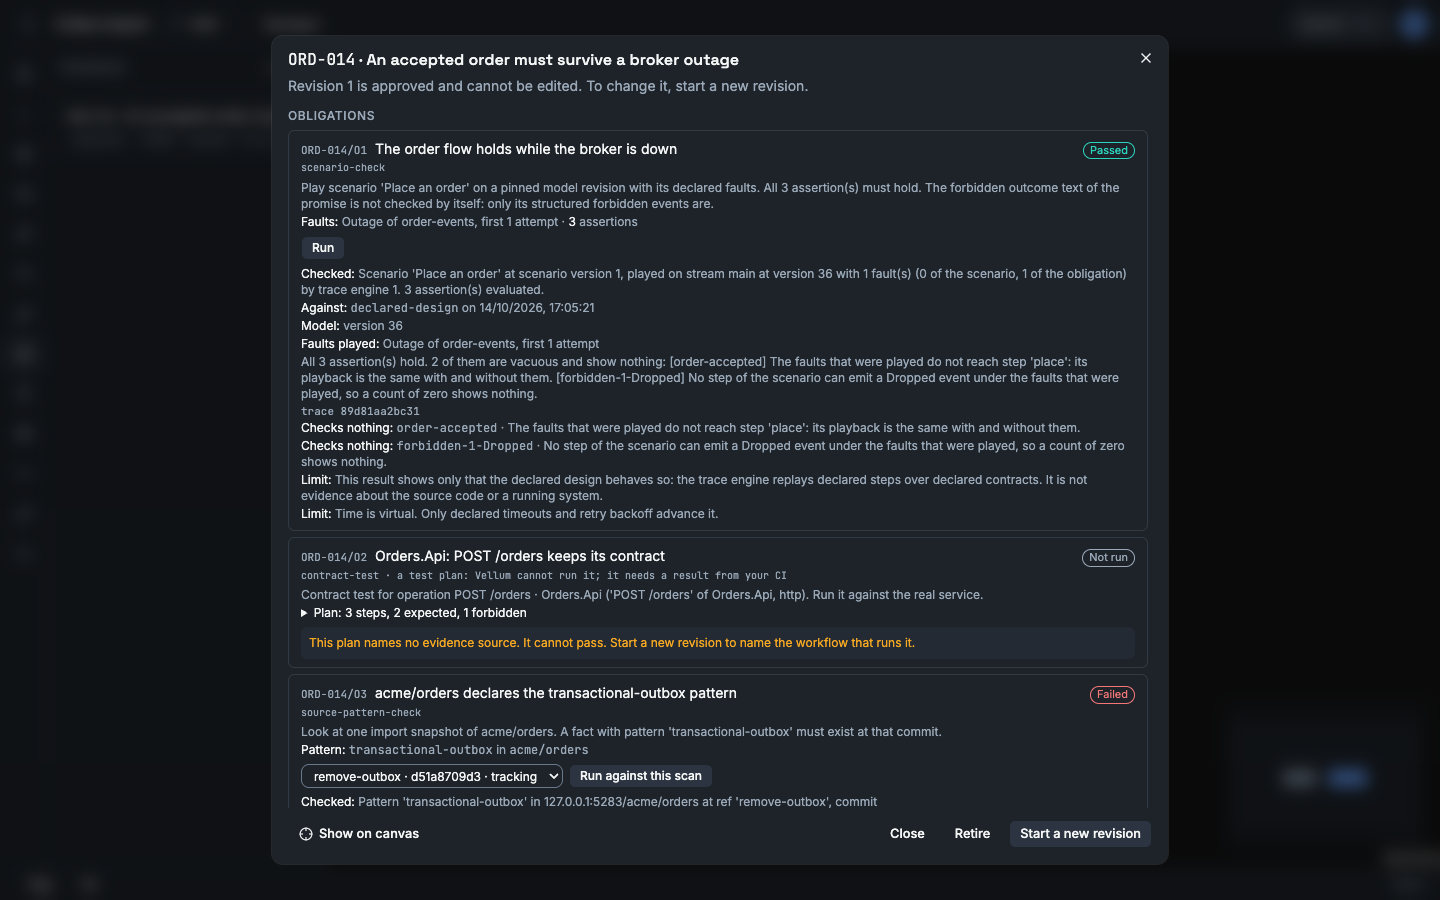
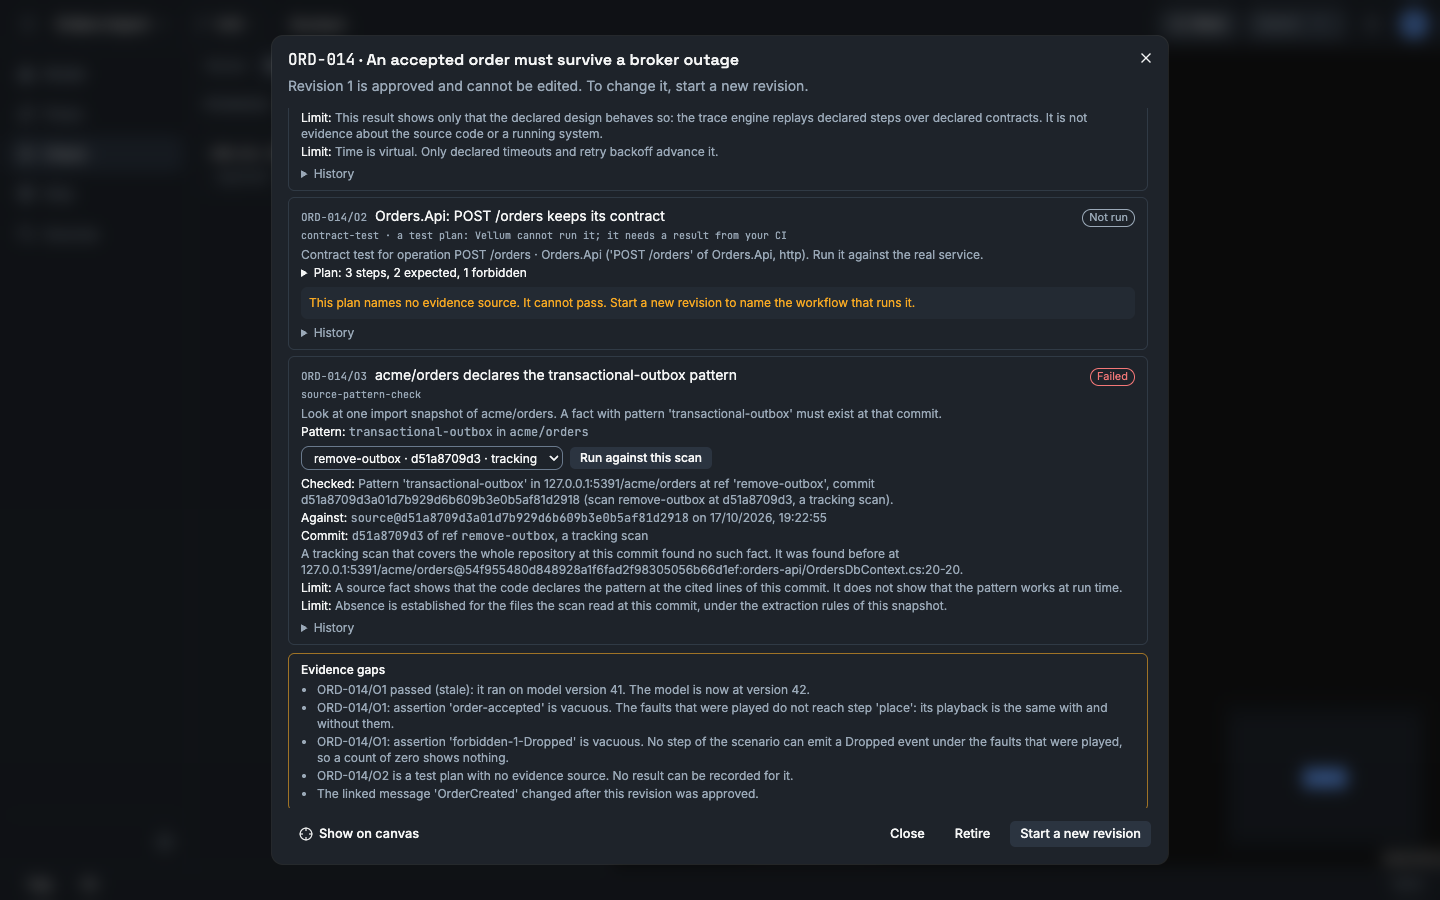
vellum docs: promise loop lists the nine blockers that Follow this ref now causes
Following remove-outbox auto-applies the observed change of the message
OrderCreated (Total -> TotalAmount), a real change of a fact that ORD-014
links. The model moves one version, so O1 is stale and the link gap shows.
The schema change waits in Needs you because it breaks the scenario.

diff --git a/site/src/content/docs/tutorials/promise-loop.md b/site/src/content/docs/tutorials/promise-loop.md
@@ -310,7 +310,7 @@ In the app:
 4. Read **Affected flows**. **Place an order** has the label **Definite**. Each step shows its own label and its reasons. `publish-order-created` is **Definite**: it names the changed schema. The other steps are **Possible**: they run in the service of the outbox. **4 reasons for the flow** opens the reasons of the flow as a whole.
 5. Read **Affected promises**. `ORD-014` has the label **At risk**.
 6. Under **Gate**, select **Run checks against this scan**. It runs the source pattern checks of the approved promises against this commit. `ORD-014/O3` has the label **Failed**, and `ORD-014` has the label **Broken**. The scan read every file of the commit, so the absence of the pattern is established. The result is for this commit only: `ORD-014` keeps its result against `main`.
-7. Close the dialog. On the scan, select **Follow this ref**. This is what happens when the change is merged.
+7. Close the dialog. On the scan, select **Follow this ref**. This is what happens when the change is merged. Vellum applies the scan as you: the message `OrderCreated` now cites the source of `remove-outbox`. The changed schema `OrderCreated` waits in **Needs you**, because it breaks the step `publish-order-created` of **Place an order**.
 8. Select **Impact** again and select **Run checks against this scan** again. The check has the label **Failed**, and `ORD-014` has the label **Broken**. The result now counts for the ref that the model follows.
 
    ![The dialog Impact of remove-outbox on acme/orders, scrolled to the end. Affected flows lists the steps of Place an order: place, save-order, save-outbox and relay have the label Possible, and publish-order-created has the label Definite through the changed schema OrderCreated. Affected promises has ORD-014 with the label Broken, and ORD-014/O3 with the label Failed.](../../../assets/screenshots/impact-view.png)
@@ -359,6 +359,8 @@ With the HTTP API:
    {"kind":"tracking","trackedRef":"remove-outbox","canDecide":true}
    ```
 
+   Vellum applies the scan as you. The message `OrderCreated` now cites the source of `remove-outbox`, where its field `Total` has the name `TotalAmount`. The model gets a new version. The changed schema `OrderCreated` is not applied: it breaks the step `publish-order-created` of **Place an order**, so it waits in **Needs you**.
+
 4. Run the source check again.
 
    <!-- snippet: live -->
@@ -370,14 +372,16 @@ With the HTTP API:
    The result is `failed`. The detail starts with `A tracking scan that covers the whole repository at this commit found no such fact.` and names the line where the pattern was found before. The counts are now:
 
    ```json
-   {"passed":1,"failed":1,"notRun":1,"unsupported":0,"stale":0}
+   {"passed":0,"failed":1,"notRun":1,"unsupported":0,"stale":1}
    ```
+
+   The result of `O1` is stale. It ran on the model version before you followed the ref.
 
 5. In the app, open **Promises** and select **ORD-014**. The dialog shows the failed obligation with what it checked and against which commit. **Evidence gaps** lists what has no evidence.
 
-![The dialog of ORD-014 with its three obligations. ORD-014/O1 has the label Passed, with the faults played, the model version, the trace hash and the two assertions that check nothing. ORD-014/O2 has the label Not run and the note that the plan names no evidence source. ORD-014/O3 has the label Failed against the tracking scan of remove-outbox. The texts name the scenario and the operation, not their IDs.](../../../assets/screenshots/promise-obligations-results.png)
+![The dialog of ORD-014, scrolled to the obligations. ORD-014/O2 has the label Not run and the note that the plan names no evidence source. ORD-014/O3 has the label Failed against the tracking scan of remove-outbox, with the source line where the pattern was found before. Evidence gaps lists five gaps: the stale result of ORD-014/O1, its two vacuous assertions, the test plan ORD-014/O2 with no evidence source, and the linked message OrderCreated that changed after the approval.](../../../assets/screenshots/promise-obligations-results.png)
 
-The scenario check still passes. The scenario is your declared design, and you did not change it. Vellum does not change a declared flow because the source changed. The source check is the evidence that the code no longer has what the promise needs.
+The scenario check passed, but its result is stale: the message `OrderCreated` that the promise links changed after you approved the promise. The scenario is your declared design, and you did not change it. Vellum does not change a declared flow because the source changed. The source check is the evidence that the code no longer has what the promise needs.
 
 ## Read the blockers
 
@@ -386,12 +390,17 @@ The scenario check still passes. The scenario is your declared design, and you d
 api GET build/manifest | jq -r '.buildReady, (.blockers[] | "\(.code)  \(.message)")'
 ```
 
-The first line is `false`. The list holds these blockers for `ORD-014`:
+The first line is `false`. The list holds these nine blockers for `ORD-014`:
 
+- `promise-gap`: the result of `O1` is stale, because it ran on the model version before you followed the ref.
+- `promise-gap`: the assertion `order-accepted` of `O1` is vacuous.
+- `promise-gap`: the assertion `forbidden-1-Dropped` of `O1` is vacuous.
+- `promise-gap`: `O2` is a test plan with no evidence source.
+- `promise-gap`: the linked message `OrderCreated` changed after the promise was approved.
 - `promise-check-failed`: one obligation failed its newest check.
-- `promise-gap`: two assertions of `O1` are vacuous, and `O2` is a test plan with no evidence source.
-- `promise-evidence-stale`: `O2` has no result.
-- `review-CON-001`: two operations on the path of `ORD-014` have no request schema and no response schema.
+- `promise-evidence-stale`: the newest result of `O1` is not for the pinned inputs, and `O2` has no result.
+- `review-CON-001`: the operation `POST /orders` has no request schema and no response schema.
+- `review-CON-001`: the operation `Relay outbox` has no request schema and no response schema.
 
 In the app, the **Build** tab of **Ship** in the sidebar shows the same list under **Blockers**, below the line that starts with **Not build ready**.
 
@@ -423,7 +432,7 @@ head -n 3 brief.md
 ```
 
 ```text
-{"format":"vellum-brief/1","buildReady":false,"blockers":7}
+{"format":"vellum-brief/1","buildReady":false,"blockers":9}
 # Orders import: build brief
 
 Pinned model: branch stream `<stream ID>` at version <number>.
